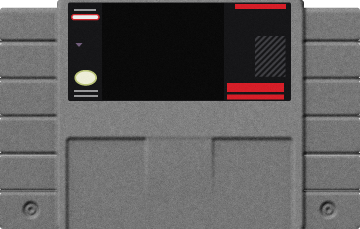
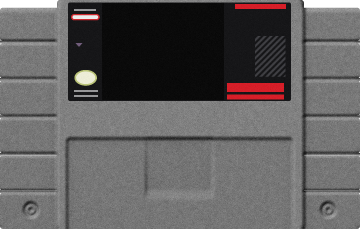
Sink the SNES cart's middle strip instead of raising it
The user asked for the lower part reversed. Their photograph is lit from
the right, and read that way the strip down the middle of the recess is a
channel below the panels either side, deepening toward the bottom, not a
raised ramp. It now sinks and rises back into the floor at its end, and
the darkening of depth stops past 3.2 so it keeps the floor's tone.

Changed region(s): [[0.3972, 0.5808, 0.6111, 0.8253]]

diff --git a/tools/fragile/media/draw_carts.py b/tools/fragile/media/draw_carts.py
@@ -28,9 +28,10 @@ LABEL = 119  # the flat grey of a label box, as on the Game Boy shells
 
 
 class Shell:
-    def __init__(self, w, h, seed, face=0.0):
+    def __init__(self, w, h, seed, face=0.0, deepest=None):
         self.w, self.h = w, h
         self.face = face  # the height of its front face, which comes out at FLAT
+        self.deepest = deepest  # how far below the face the darkening of depth stops
         self.z = [0.0] * (w * h)  # height of the plastic, in pixels
         self.mask = [0.0] * (w * h)  # how much of each pixel the shell covers
         self.flat = [None] * (w * h)  # a fixed grey or RGB that lighting leaves alone
@@ -155,7 +156,10 @@ class Shell:
                 lit = (nx * lx + ny * ly + nz * lz) / n
                 v = FLAT + 120 * (lit - lz)
                 v -= 5.0 * max(0.0, far[i] - z[i])  # shade in the bottom of a recess
-                v += 2.6 * min(0.0, z[i] - self.face)  # and the deeper, the darker
+                below = min(0.0, z[i] - self.face)
+                if self.deepest is not None:
+                    below = max(below, -self.deepest)
+                v += 2.6 * below  # and the deeper, the darker
                 v += 5.0 * (0.5 - y / h)  # lit a little more at the top
                 v += 4.5 * grain[i] + 3.0 * soft[i]  # the speckle of moulded plastic
                 c = (v, v, v)
@@ -206,10 +210,10 @@ def triangle_edge(pts, width):
 def snes():
     """An NTSC SNES cart, face on, measured off a photograph of one (798x507 there, scaled to
     360 wide): a raised centre between two ribbed wings, the sticker at the top of the centre,
-    a wide recess open to the bottom edge across its lower front with a shallower strip down
-    its middle, and a screw low in each wing."""
+    a wide recess open to the bottom edge across its lower front with a channel down its
+    middle, and a screw low in each wing."""
     W, H = 360, 229
-    s = Shell(W, H, seed=2, face=4.0)
+    s = Shell(W, H, seed=2, face=4.0, deepest=3.2)
     wing_top = 7.7
     body_x0, body_x1 = 57, 304
     # The wings: six slabs a side with deep gaps between them.
@@ -228,13 +232,15 @@ def snes():
     # The raised centre, barely rounded at its corners.
     s.outline(body_x0, 0, body_x1, H, r=3)
     s.height(body_x0, 0, body_x1, H, 4.0, r=3)
-    # The recess across the lower front, open to the bottom edge, and the shallower strip down
-    # its middle, which stops short of the bottom.
+    # The recess across the lower front, open to the bottom edge, and a channel down its middle
+    # that sinks deeper toward the bottom, then rises back into the floor.
     s.height(67, 138.5, 293, H + 3, 1.0, radii=(3, 3, 0, 0))
     ramp0, ramp1 = 138.5, 200.0
     for k in range(int(ramp1 - ramp0)):
         y = ramp0 + k
-        s.height(146, y, 213, y + 1, 4.0 - 3.0 * k / (ramp1 - ramp0))
+        t = (k + 1) / (ramp1 - ramp0)
+        sink = 0.8 + 2.4 * t if t < 0.85 else (0.8 + 2.4 * 0.85) * (1 - t) / 0.15  # then rises
+        s.height(146, y, 213, y + 1, 1.0 - sink)
     # A screw low in each wing.
     for cx in (31.1, 328.4):
         cy = 209.8
